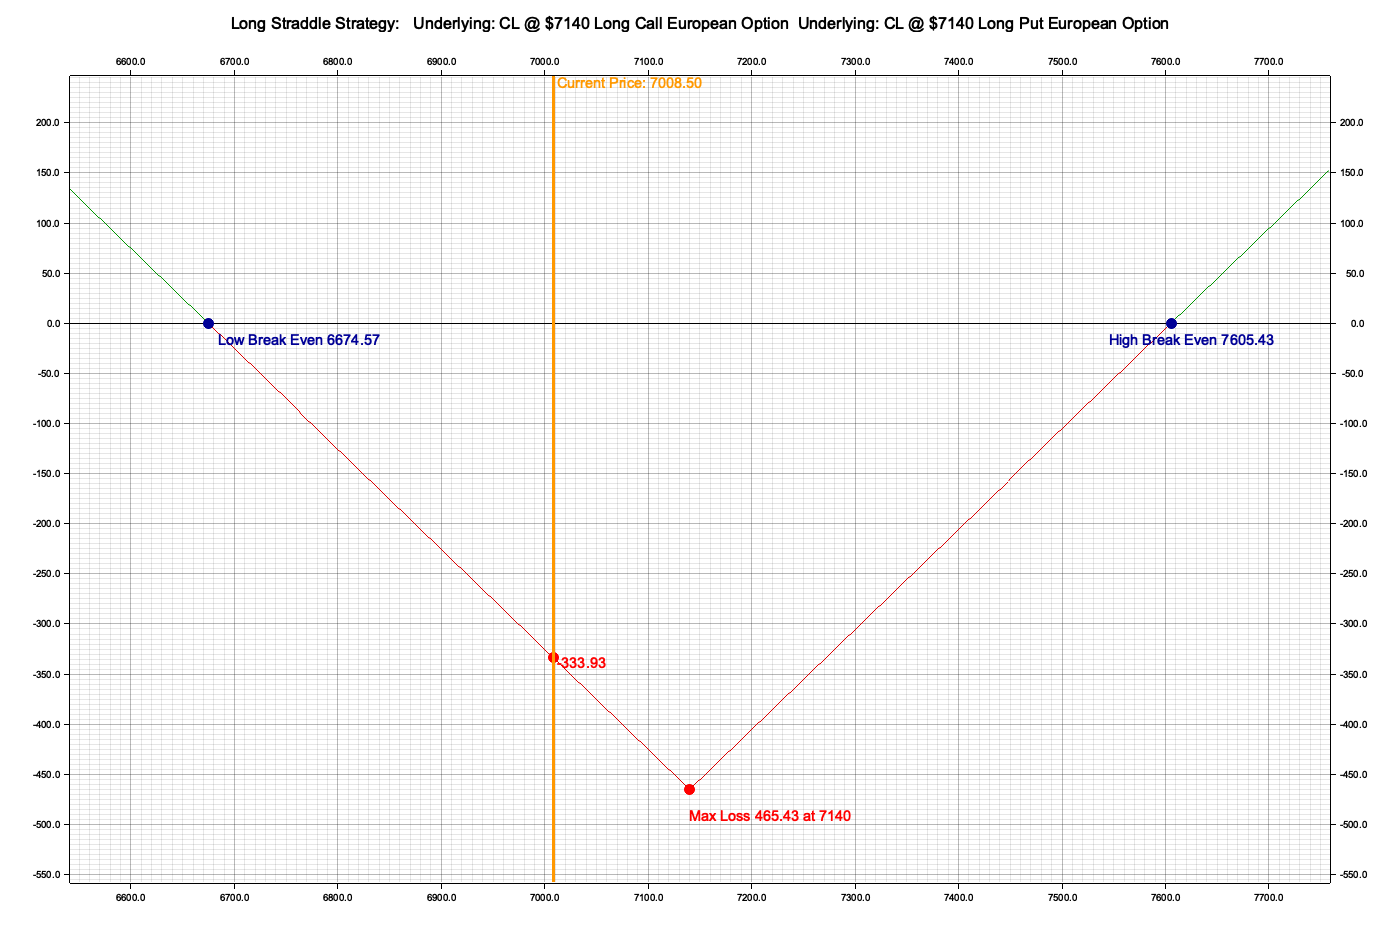
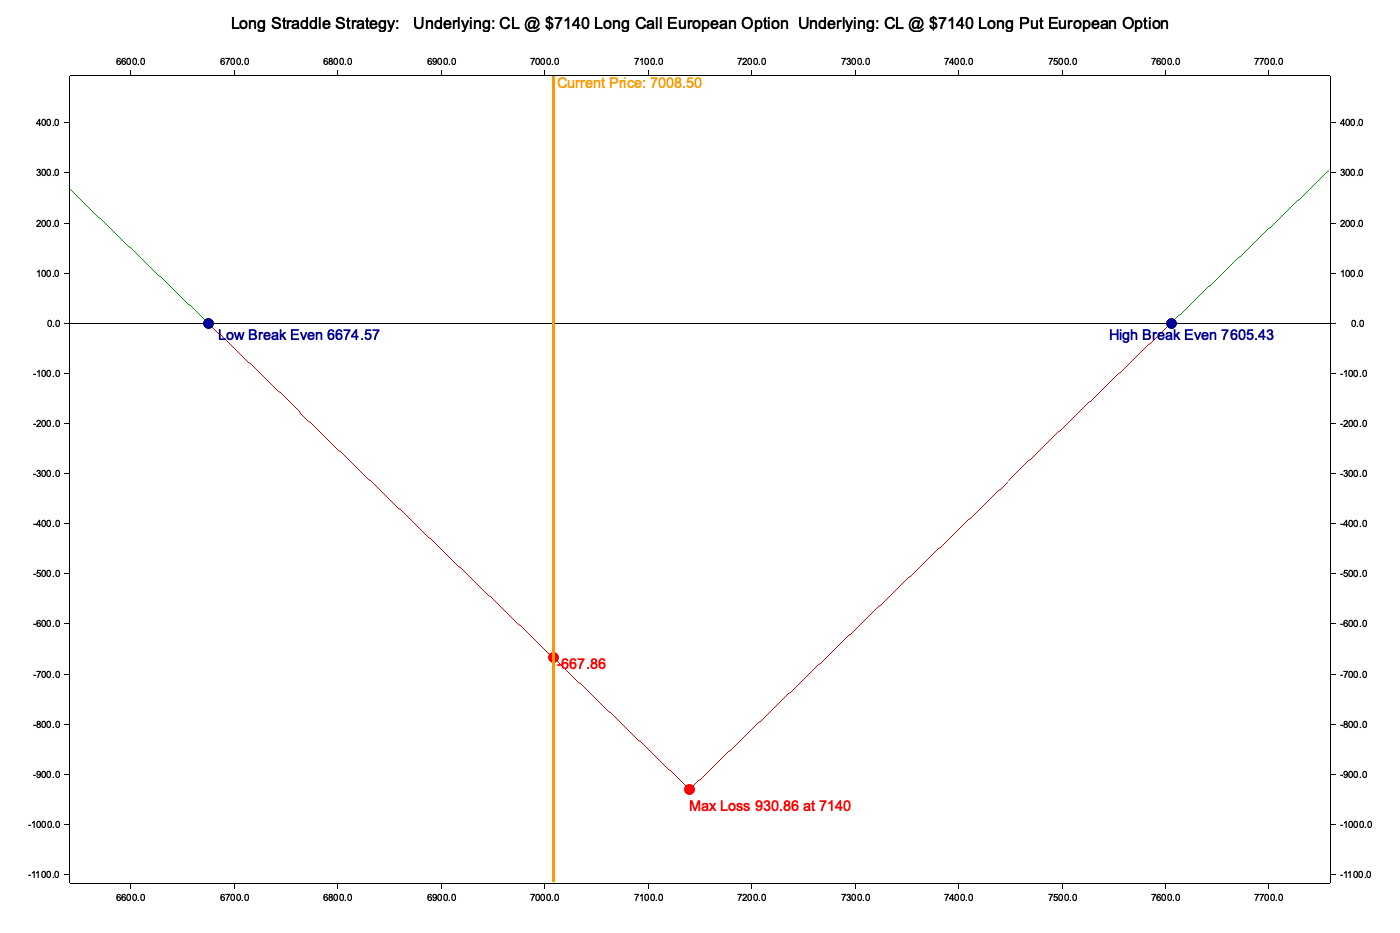
Refine straddle strategy calculations and update examples.
Removed unnecessary fee calculation methods, standardized rounding for break-even points, and corrected fee and quantity values in tests and examples. Updated visual charts to reflect these adjustments. (ref. #83)

Changed region(s): [[0.0307, 0.0932, 0.9829, 0.9325], [0.9521, 0.9325, 0.9829, 0.9636]]

diff --git a/src/strategies/straddle.rs b/src/strategies/straddle.rs
@@ -156,10 +156,10 @@ impl ShortStraddle {
 
         let net_quantity = (short_call.option.quantity + short_put.option.quantity) / 2.0;
         strategy.break_even_points.push(
-            strike - strategy.net_premium_received().unwrap().to_f64().unwrap() / net_quantity,
+            (strike - strategy.net_premium_received().unwrap() / net_quantity).round_to(2)
         );
         strategy.break_even_points.push(
-            strike + strategy.net_premium_received().unwrap().to_f64().unwrap() / net_quantity,
+            (strike + strategy.net_premium_received().unwrap() / net_quantity).round_to(2)
         );
 
         strategy.break_even_points.sort();
@@ -214,14 +214,6 @@ impl Strategies for ShortStraddle {
 
     fn net_premium_received(&self) -> Result<Decimal, StrategyError> {
         let result = self.short_call.net_premium_received() + self.short_put.net_premium_received();
-        Ok(Decimal::from_f64(result).unwrap())
-    }
-
-    fn fees(&self) -> Result<Decimal, StrategyError> {
-        let result = self.short_call.open_fee
-            + self.short_call.close_fee
-            + self.short_put.open_fee
-            + self.short_put.close_fee;
         Ok(Decimal::from_f64(result).unwrap())
     }
 
@@ -705,11 +697,17 @@ impl LongStraddle {
 
         strategy
             .break_even_points
-            .push(strike - strategy.total_cost() / net_quantity);
+            .push(
+                (strike - strategy.total_cost() / net_quantity)
+                    .round_to(2)
+            );
 
         strategy
             .break_even_points
-            .push(strike + strategy.total_cost() / net_quantity);
+            .push(
+                (strike + strategy.total_cost() / net_quantity)
+                    .round_to(2)
+                );
 
         strategy.break_even_points.sort();
         strategy
@@ -754,15 +752,6 @@ impl Strategies for LongStraddle {
 
     fn net_premium_received(&self) -> Result<Decimal, StrategyError> {
         Ok(Decimal::ZERO) // Long Straddle doesn't receive premium
-    }
-
-    fn fees(&self) -> Result<Decimal, StrategyError> {
-        let result = self.long_call.open_fee
-            + self.long_call.close_fee
-            + self.long_put.open_fee
-            + self.long_put.close_fee;
-
-        Ok(Decimal::from_f64(result).unwrap())
     }
 
     fn profit_area(&self) -> Result<Decimal, StrategyError> {
@@ -1275,7 +1264,7 @@ mod tests_short_straddle {
     #[test]
     fn test_fees() {
         let strategy = setup();
-        let expected_fees = 0.4;
+        let expected_fees = 40.0;
         assert_eq!(strategy.fees().unwrap().to_f64().unwrap(), expected_fees);
     }
 
@@ -1580,7 +1569,7 @@ mod tests_long_straddle {
     #[test]
     fn test_fees() {
         let strategy = setup_long_straddle();
-        let expected_fees = 2.0; // 0.5 * 4 fees
+        let expected_fees = 20.0; // 0.5 * 4 fees * 10 qty
         assert_eq!(strategy.fees().unwrap().to_f64().unwrap(), expected_fees);
     }
 

diff --git a/examples/examples_strategies/src/bin/strategy_long_straddle.rs b/examples/examples_strategies/src/bin/strategy_long_straddle.rs
@@ -22,7 +22,7 @@ fn main() -> Result<(), Box<dyn Error>> {
         pos!(0.3745),   // implied_volatility
         dec!(0.05),     // risk_free_rate
         Positive::ZERO, // dividend_yield
-        pos!(1.0),      // quantity
+        pos!(2.0),      // quantity
         84.2,           // premium_short_call
         353.2,          // premium_short_put
         7.0,            // open_fee_short_call

diff --git a/examples/examples_strategies/src/bin/strategy_short_straddle.rs b/examples/examples_strategies/src/bin/strategy_short_straddle.rs
@@ -22,7 +22,7 @@ fn main() -> Result<(), Box<dyn Error>> {
         pos!(0.3745),   // implied_volatility
         dec!(0.05),     // risk_free_rate
         Positive::ZERO, // dividend_yield
-        pos!(1.0),      // quantity
+        pos!(2.0),      // quantity
         84.2,           // premium_short_call
         353.2,          // premium_short_put
         7.01,           // open_fee_short_call
